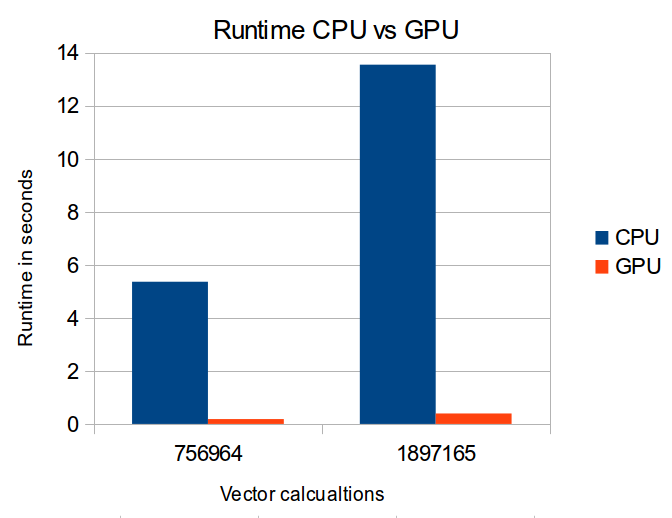
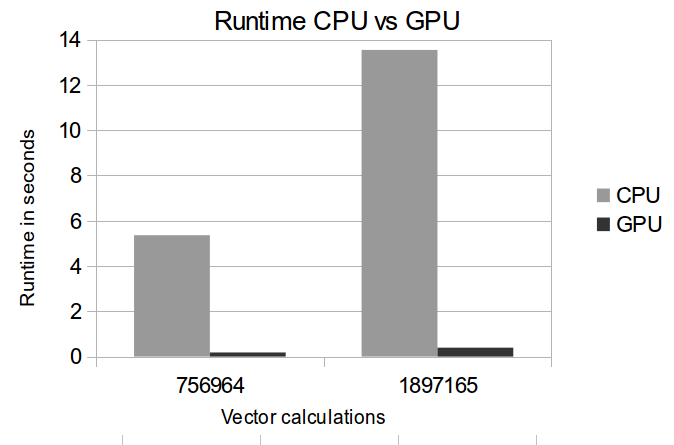
fixed graph size and placement

diff --git a/paper.tex b/paper.tex
@@ -117,7 +117,7 @@ Since our results are mainly focused on the speedup gained with the same amount 
 Small laptop sized tests such as mentioned above do not to the capability of the GPU justice. So we reran the same test, scaled up in size by about 8 to 10x on a workstation with a much larger, 480-core, GPU. This saw a drastic increase in performance, a test with vectors of size 756000 and 1890000, saw a GPU runtime of 0.1855seconds and 0.382seconds vs the CPU which took 5.267 seconds and 13.2501 seconds respectively. That is a 28x to 34x speedup over the CPU code. (\emph{ see figure \ref{graph}})
 \begin{figure}[htb]
 \centering
-\includegraphics[scale=.35]{graph.png}
+\includegraphics[scale=.5]{graph.png}
 \caption{Performance CPU vs GPU runtime in seconds (lower is better)}
   \label{graph}
 \end{figure}
